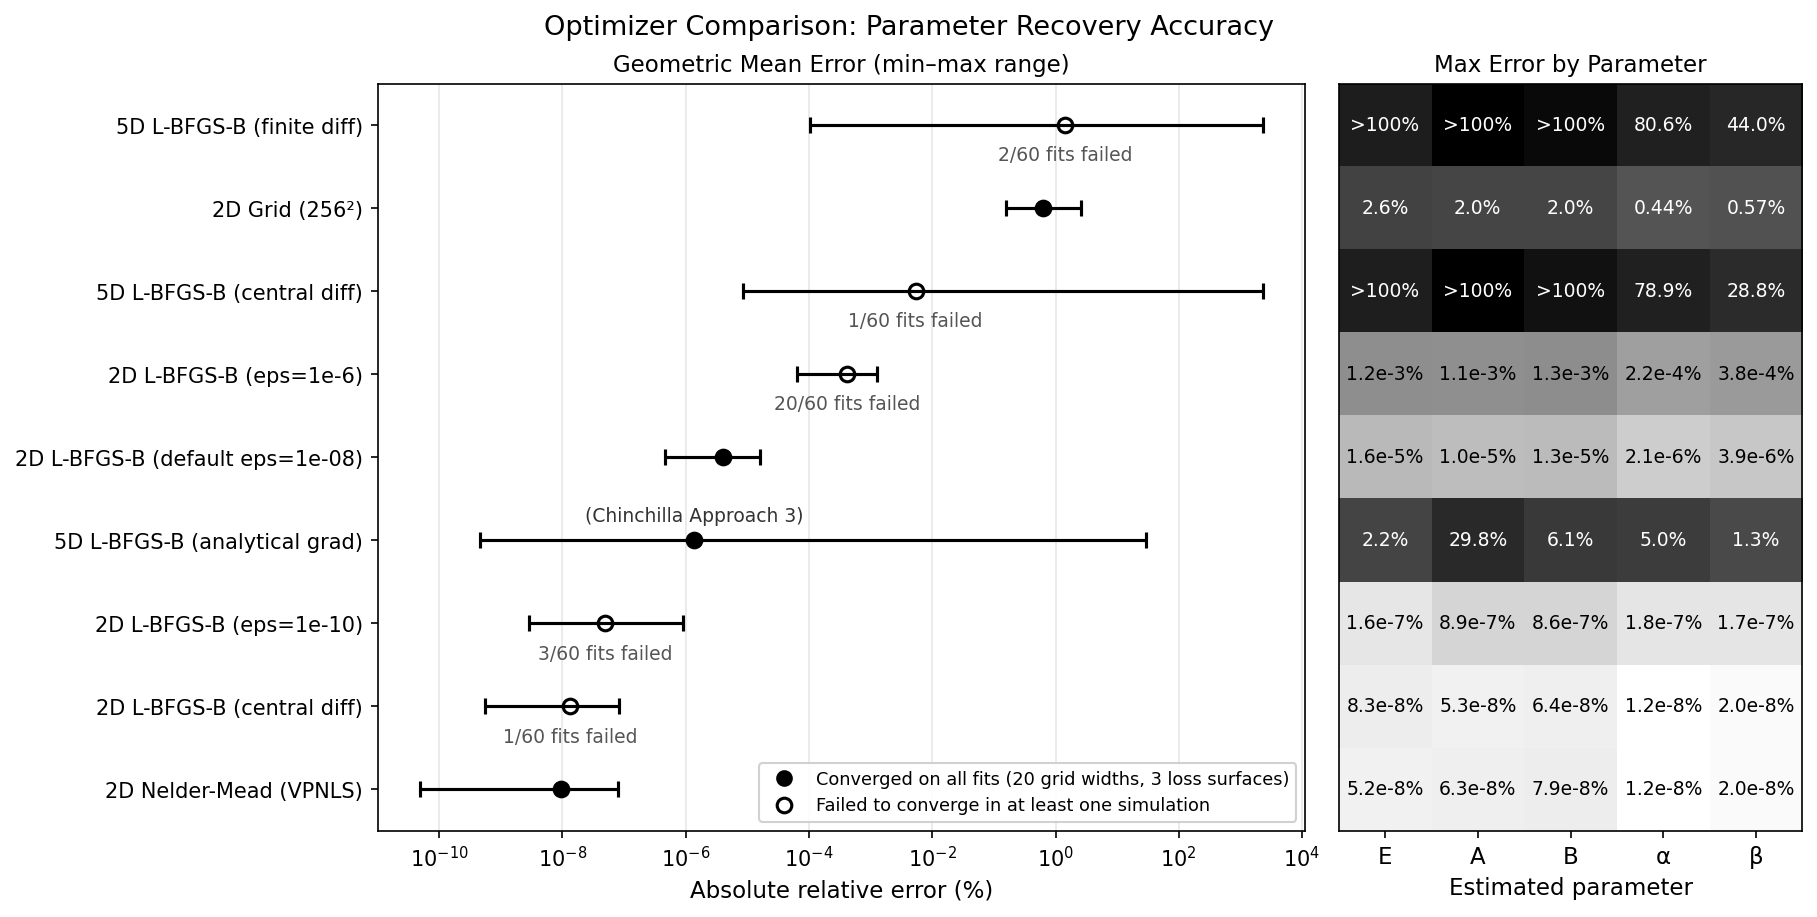
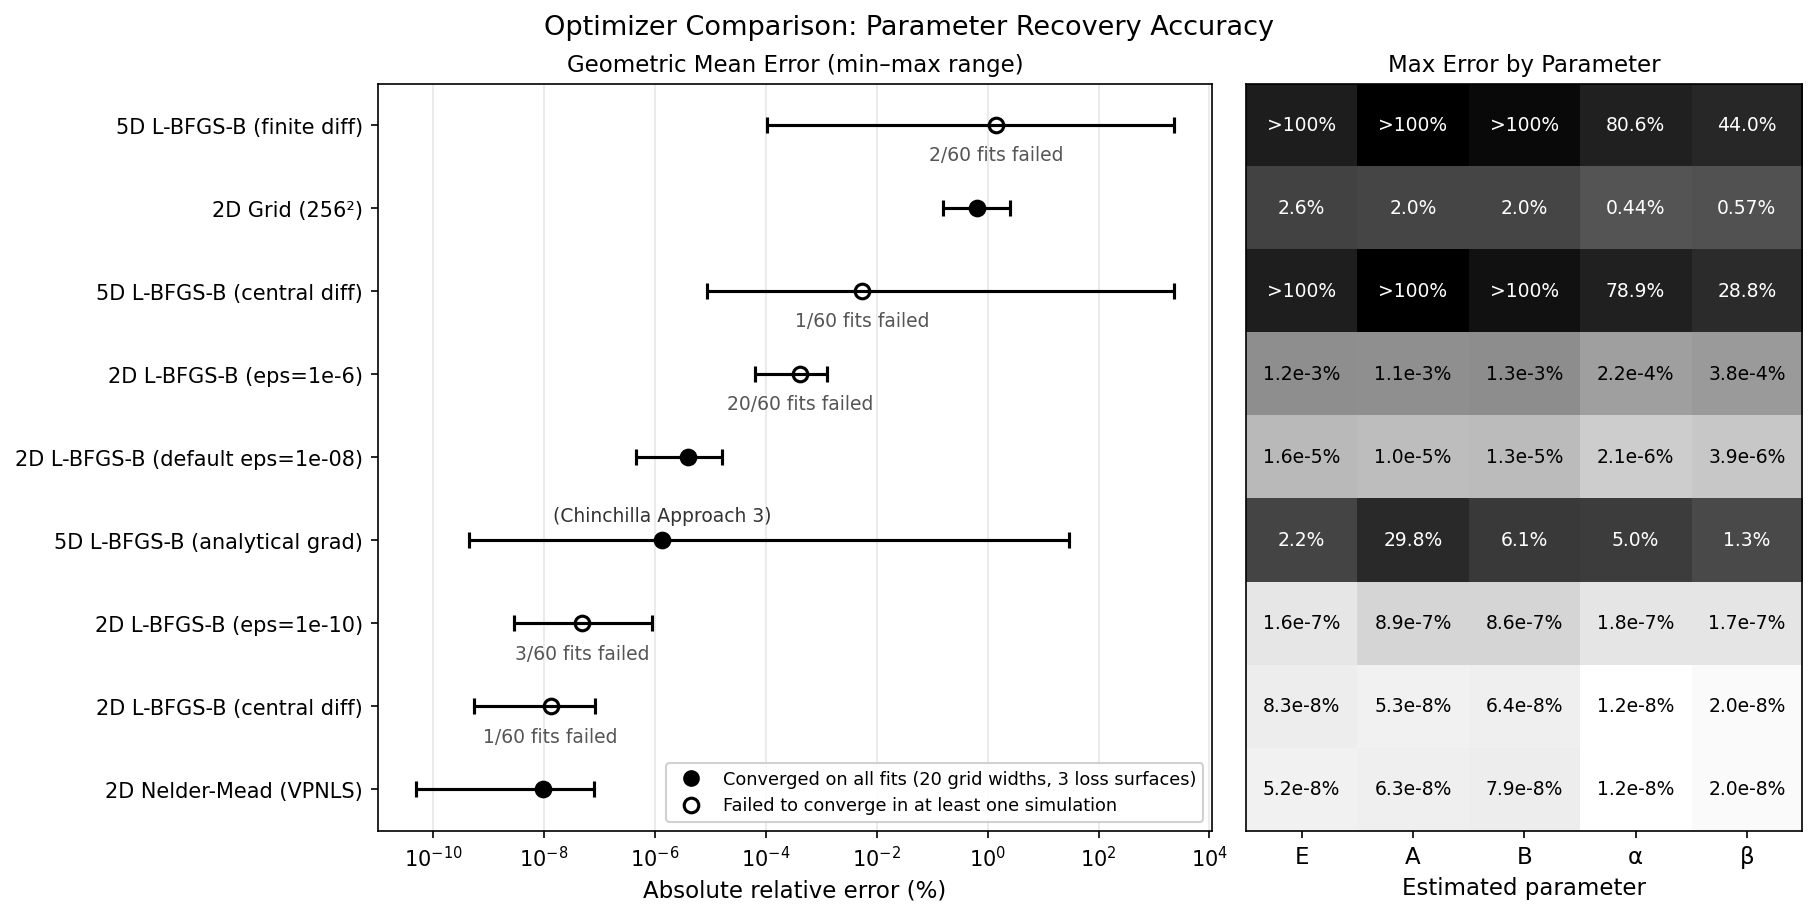
Add appendix with detailed method comparison figure and rename Compounding Errors section
Add Appendix A (Figure A1) showing per-parameter recovery error across
surfaces and sampling ranges, with cross-references from the method
comparison discussion. Rename "Putting It All Together" to "Compounding
Errors" for clarity. Update figure pipeline to copy exp5 output to
appendix directory and adjust method comparison panel width ratio.

diff --git a/results/article/article.html b/results/article/article.html
@@ -579,10 +579,16 @@
                 <li>
                     <a href="#in-the-wild">IsoFLOP Curves in the Wild — Evidence from Published Studies</a>
                     <ol>
-                        <li><a href="#putting-it-together">Putting It All Together</a></li>
+                        <li><a href="#putting-it-together">Compounding Errors</a></li>
                     </ol>
                 </li>
                 <li><a href="#conclusion">Conclusion</a></li>
+                <li>
+                    <a href="#appendix">Appendix</a>
+                    <ol>
+                        <li><a href="#appendix-method-comparison">Detailed Method Comparison</a></li>
+                    </ol>
+                </li>
             </ol>
         </nav>
 
@@ -1610,6 +1616,9 @@
                 budgets. VPNLS recovers all five parameters with errors on the order of
                 10<sup>&minus;8</sup>%, effectively eliminating parameter estimation as a
                 source of extrapolation error.
+                <a href="#appendix-method-comparison">Figure A1</a> breaks this down by
+                surface and sampling range, also revealing that Approach 3's errors can vary
+                systematically with sampling range on certain surfaces.
             </p>
 
             <p>
@@ -1624,7 +1633,9 @@
                 finite-difference gradients rather than analytical gradients perform particularly
                 poorly and serve as a useful negative control. They demonstrate what high
                 variability and instability look like, and Approach 3 with analytical gradients
-                exhibits a similar pattern at somewhat lower magnitude.
+                exhibits a similar pattern at somewhat lower magnitude. The full
+                per-parameter breakdown (<a href="#appendix-method-comparison">Figure
+                A1</a>) shows these instability patterns in detail.
             </p>
 
             <p>
@@ -1821,7 +1832,7 @@
                 special case.
             </p>
 
-            <h3 id="putting-it-together">Putting It All Together</h3>
+            <h3 id="putting-it-together">Compounding Errors</h3>
 
             <p>
                 Given evidence that both surface asymmetry and off-center sampling are present in
@@ -1906,6 +1917,26 @@
                 variable projection as a robust alternative.
             </p>
 
+        </section>
+
+        <!-- Appendix -->
+        <section id="appendix">
+            <h2>Appendix</h2>
+
+            <h3 id="appendix-method-comparison">A. Detailed Method Comparison</h3>
+
+            <figure>
+                <img src="appendix/method_comparison_detailed.png"
+                    alt="Detailed method comparison showing per-parameter error across surfaces and sampling ranges">
+                <figcaption>
+                    <strong>Figure A1:</strong> Per-parameter recovery error for nine fitting
+                    methods across three loss surfaces and 20 sampling ranges (baseline, no
+                    bias). Each panel shows absolute relative error (%) on a log scale versus
+                    sampling range, with one curve per method. Rows correspond to loss surfaces
+                    (symmetric, Chinchilla, high imbalance); columns correspond to parameters
+                    (E, A, B, &alpha;, &beta;). Gaps indicate convergence failures.
+                </figcaption>
+            </figure>
         </section>
 
         <!-- References -->

diff --git a/src/scaling_law_analysis/article/figures.py b/src/scaling_law_analysis/article/figures.py
@@ -1181,7 +1181,7 @@ def create_method_comparison_figure(output_dir: Path) -> dict:
         1,
         2,
         figsize=(12, fig_height),
-        gridspec_kw={"width_ratios": [3, 1.5], "wspace": 0.02},
+        gridspec_kw={"width_ratios": [3, 2], "wspace": 0.02},
         sharey=True,
         layout="constrained",
     )
@@ -1462,7 +1462,23 @@ def generate_all_figures(output_dir: Path) -> dict:
     # Section 5: Method Comparison
     data["method_comparison"] = create_method_comparison_figure(output_dir)
 
+    # Appendix figures (copied from experiment outputs)
+    copy_appendix_figures(output_dir)
+
     return data
+
+
+def copy_appendix_figures(output_dir: Path) -> None:
+    """Copy experiment figures used in the appendix."""
+    import shutil
+
+    from scaling_law_analysis import config
+
+    appendix_dir = prepare_output_dir(output_dir / "appendix")
+    src = config.RESULTS_DIR / "experiments" / "exp5" / "method_comparison.png"
+    dst = appendix_dir / "method_comparison_detailed.png"
+    shutil.copy2(src, dst)
+    print(f"Copied: {src} → {dst}")
 
 
 if __name__ == "__main__":

diff --git a/specs/article.md b/specs/article.md
@@ -179,7 +179,7 @@
 - Sampling centers do not always coincide with the curve minima, and the degree of off-centering appears to vary across compute budgets
 - This is not a criticism of these studies; these are some of the most careful and influential scaling law analyses published. The point is that the conditions under which Approach 2's biases activate are the norm, not the exception
 
-- **Putting It All Together**: simulate combined asymmetry and sampling biases in a single extrapolation analysis (XS through XL grids, all three surfaces, all five bias configs)
+- **Compounding Errors**: simulate combined asymmetry and sampling biases in a single extrapolation analysis (XS through XL grids, all three surfaces, all five bias configs)
 - Figure (TODO: determine presentation/layout): D* extrapolation error across grid widths and surfaces with combined biases; temporary research image at `results/article/static/combined_extrapolation_error.png`
 - Show how each bias source dominates at different grid widths; note that the two sources can partially offset or reinforce depending on offset direction
 - TODO: add a configuration where bias sources reinforce rather than offset, to demonstrate the compounding case directly
@@ -193,3 +193,12 @@
 - **Two independent sources compound in practice**: surface asymmetry (α ≠ β) biases intercepts, and off-center sampling biases intercepts or exponents depending on whether the offset is constant or drifting; both act simultaneously in any real experiment
 - **A practical alternative exists**: VPNLS recovers all five surface parameters with machine precision, uses the same intuitive linear separation that makes Approach 2 appealing, and is straightforward to implement
 - **Takeaway for practitioners**: when using Approach 2, be aware that intercept estimates carry a systematic bias that grows with exponent asymmetry and sampling grid width; when precision matters for extrapolation to large compute budgets, consider VPNLS as a robust alternative
+
+---
+
+## Appendix
+
+### A. Detailed Method Comparison
+
+- Full per-parameter, per-surface, per-sampling-range error breakdown from Experiment 5's method comparison (see `specs/experiments.md`, Experiment 5 > Visualization > item 3)
+- Figure (3 rows × 5 columns): rows = loss surfaces, columns = parameters (E, A, B, α, β); each panel shows absolute relative error vs sampling range for all nine method configurations; baseline (no bias) only

diff --git a/specs/sync.md b/specs/sync.md
@@ -25,6 +25,7 @@ When one implementation artifact changes, other artifacts that depend on it may 
   - `results/article/off_center_constant_bias/off_center_constant_bias_data.csv` → "Constant Multiplicative Bias" (key result callout numbers)
   - `results/article/method_comparison/method_comparison_max_errors.csv` → "Method Comparison" (prose error claims for Approach 3 and VPNLS, collapsible data table max-error columns)
   - `results/article/method_comparison/method_comparison_failures.csv` → "Method Comparison" (collapsible data table failure counts)
+- **Appendix figures from experiments**: `results/experiments/exp5/method_comparison.png` → `results/article/appendix/method_comparison_detailed.png` (copied by the figure generator; re-run step 2 after re-running experiments)
 
 ## Spec → Spec
 

diff --git a/specs/build.md b/specs/build.md
@@ -5,7 +5,7 @@ Commands for generating outputs and deploying artifacts. Start with the [Full Wo
 ## Full Workflow
 
 1. **Run experiments**: `uv run python -m scaling_law_analysis.experiments.run_all`
-2. **Generate article figures** (outputs to `results/article/`):
+2. **Generate article figures** (outputs to `results/article/`; includes copying appendix figures from experiment results):
    `uv run python -m scaling_law_analysis.article.figures`
 3. **Generate references HTML**: `uv run python -m scaling_law_analysis.references`
 4. **Sync CSV data with article text** — skip if figures unchanged (see [sync.md > Implementation → Implementation](sync.md#implementation--implementation))
